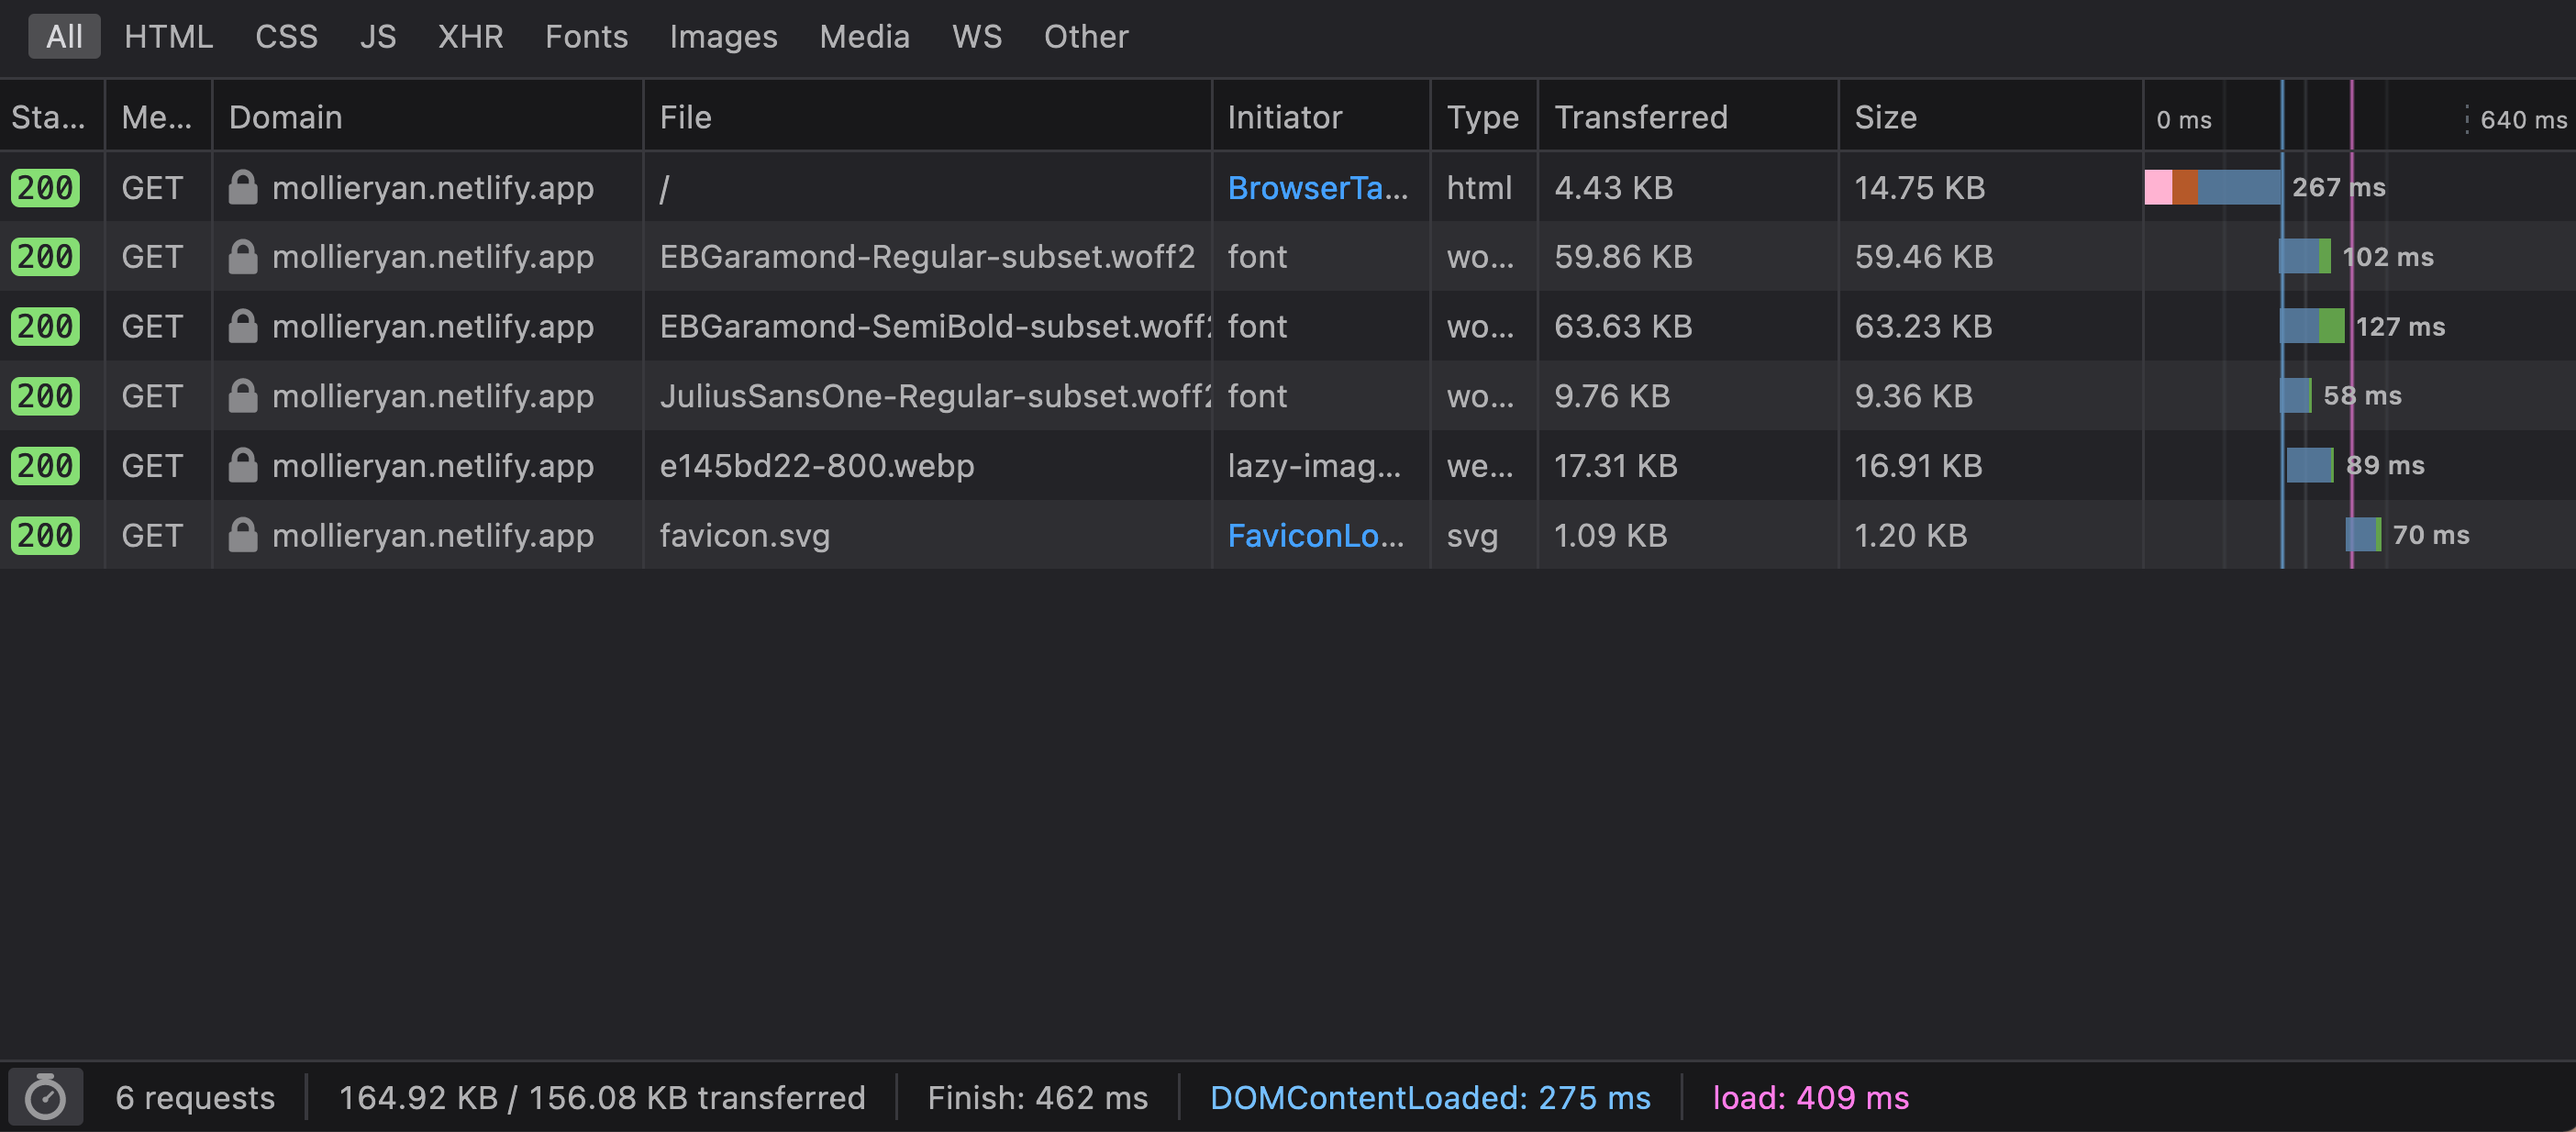
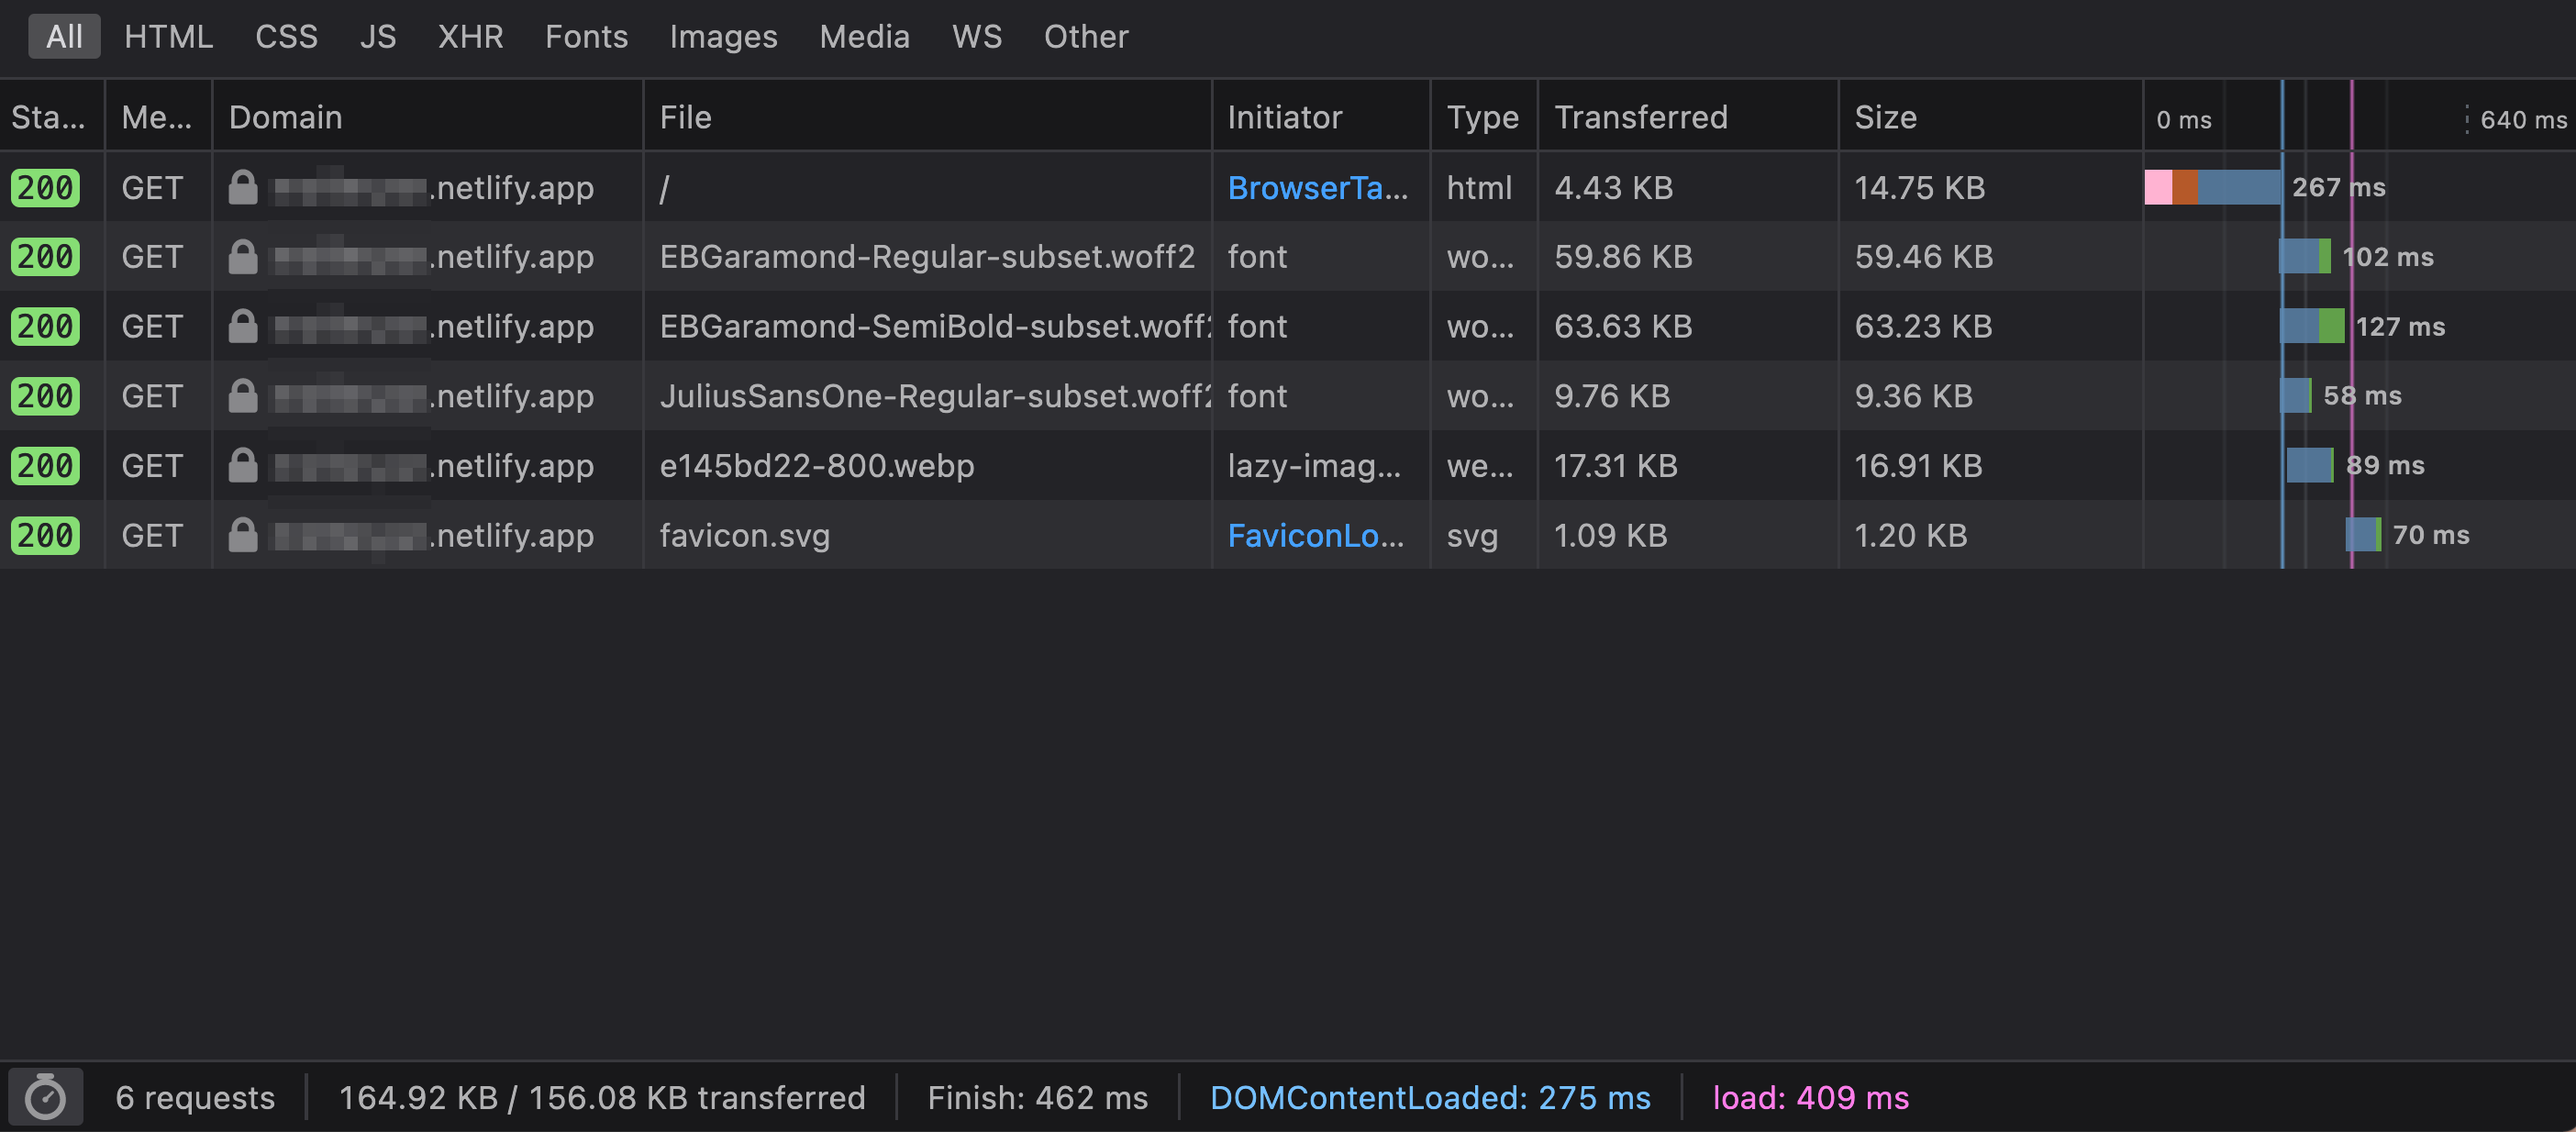
Obfuscate personal details

diff --git a/src/posts/2021-04-06-extreme-makeover-homepage-edition.md b/src/posts/2021-04-06-extreme-makeover-homepage-edition.md
@@ -17,7 +17,7 @@ tags:
   </figcaption>
 </figure>
 
-A few weeks ago my therapist, Mollie, was lamenting about the fact that she's been paying $60 a month to host her website through one of those companies that offers template websites for professionals.
+A few weeks ago my therapist was lamenting about the fact that she's been paying $60 a month to host her website through one of those companies that offers template websites for professionals.
 
 "That's outrageous," I said. "I could move it over to Netlify and you wouldn't have to pay anything."
 
@@ -48,7 +48,7 @@ Digging a little deeper, there were a number of items contributing to these scor
 
 **An accessibility overlay**. As companies are scrambling to meet accessibility requirements, they often reach for one of these solutions instead of just making their website accessible themselves. The A11y Project recently published an article about <a href="https://www.a11yproject.com/posts/2021-03-08-should-i-use-an-accessibility-overlay/">why they don't recommend using them</a>.
 
-There were some other small things, but those were the biggest culprits. And none of this was added by Mollie so much as she just picked out a template and added her content. I'm sure any other site offered by this company would be equally as unperformant.
+There were some other small things, but those were the biggest culprits. And none of this was added by my therapist so much as she just picked out a template and added her content. I'm sure any other site offered by this company would be equally as unperformant.
 
 <h3 class="ma-heading-3">Made with Eleventy</h3>
 
@@ -68,7 +68,7 @@ I reduced the number of fonts down to just two and aggressively subsetted them u
 
 With <a href="https://netlify.com">Netlify</a>, pushing updates to the live website is as easy as committing changes to your Github repo. Netlify makes it easy to roll back changes and offers a ton of other great features. It's revolutionized how I build and host sites. It pairs great with Eleventy, building your site before deploying it.
 
-Another cool feature is Netlify Forms. You can add a `netlify` attribute to any form element and when the site is built, Netlify will automatically handle form submissions. You can then set up any number of form handlers to forward submissions to an email address or automatically execute more complex tasks as needed. I used this feature for the contact form, with the submissions forwarding to Mollie's email.
+Another cool feature is Netlify Forms. You can add a `netlify` attribute to any form element and when the site is built, Netlify will automatically handle form submissions. You can then set up any number of form handlers to forward submissions to an email address or automatically execute more complex tasks as needed. I used this feature for the contact form, with the submissions forwarding to her email.
 
 **Full disclosure:** I am literally wearing <a href="https://swag.netlify.com/product/netlify-light-jammies">Netlify pajamas</a> right now.
 
@@ -108,7 +108,7 @@ In total, I reduced the number of requests from 52 to 6 and the total size from 
   </figcaption>
 </figure>
 
-And here's a side-by-side comparison of the original site (left) and the new site (right). Aside from a few accessibility improvements and spacing adjustments, it looks largely the same.
+And here's a side-by-side comparison of the original site (left) and the new site (right). Aside from a few accessibility improvements and spacing adjustments, it looks largely the same. (I obfuscated her personal details, per her request.)
 
 <figure>
   {% image "/images/mr-side-by-side.png", "" %}
